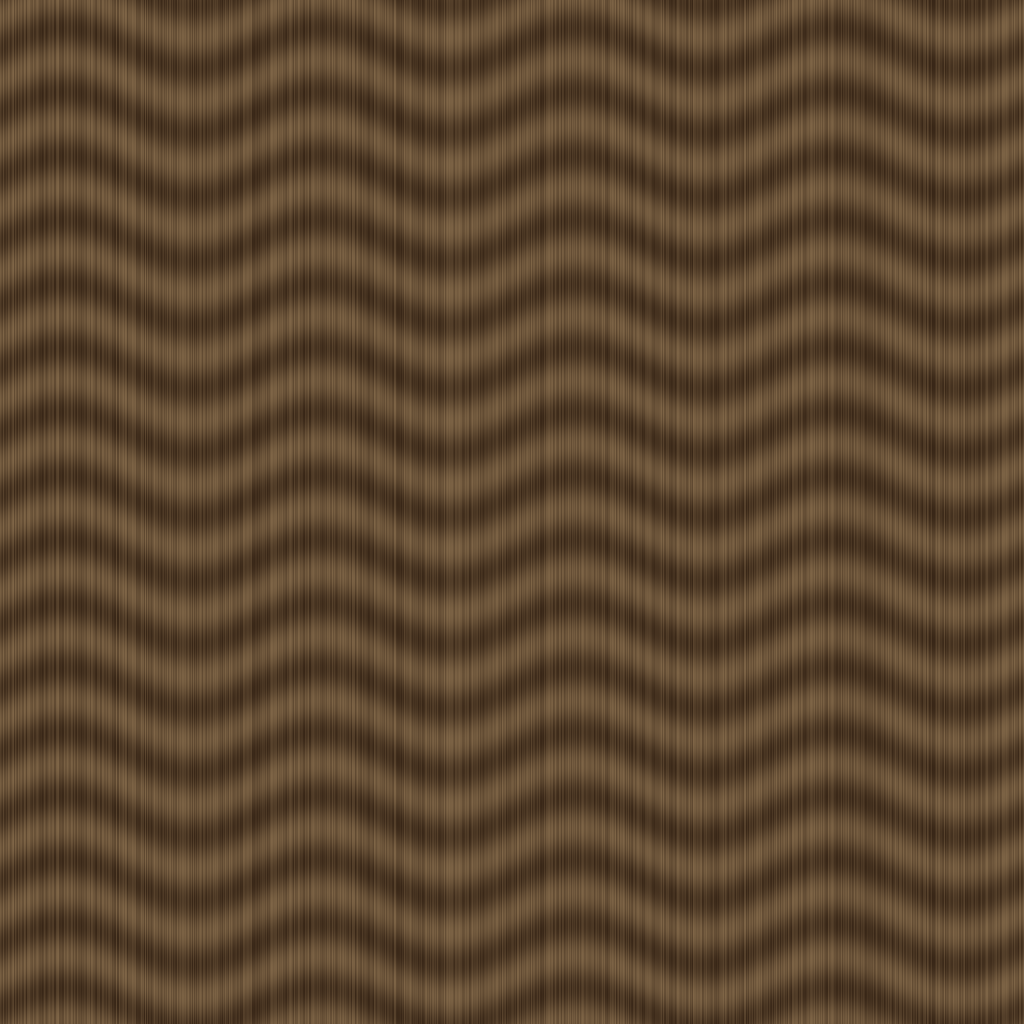
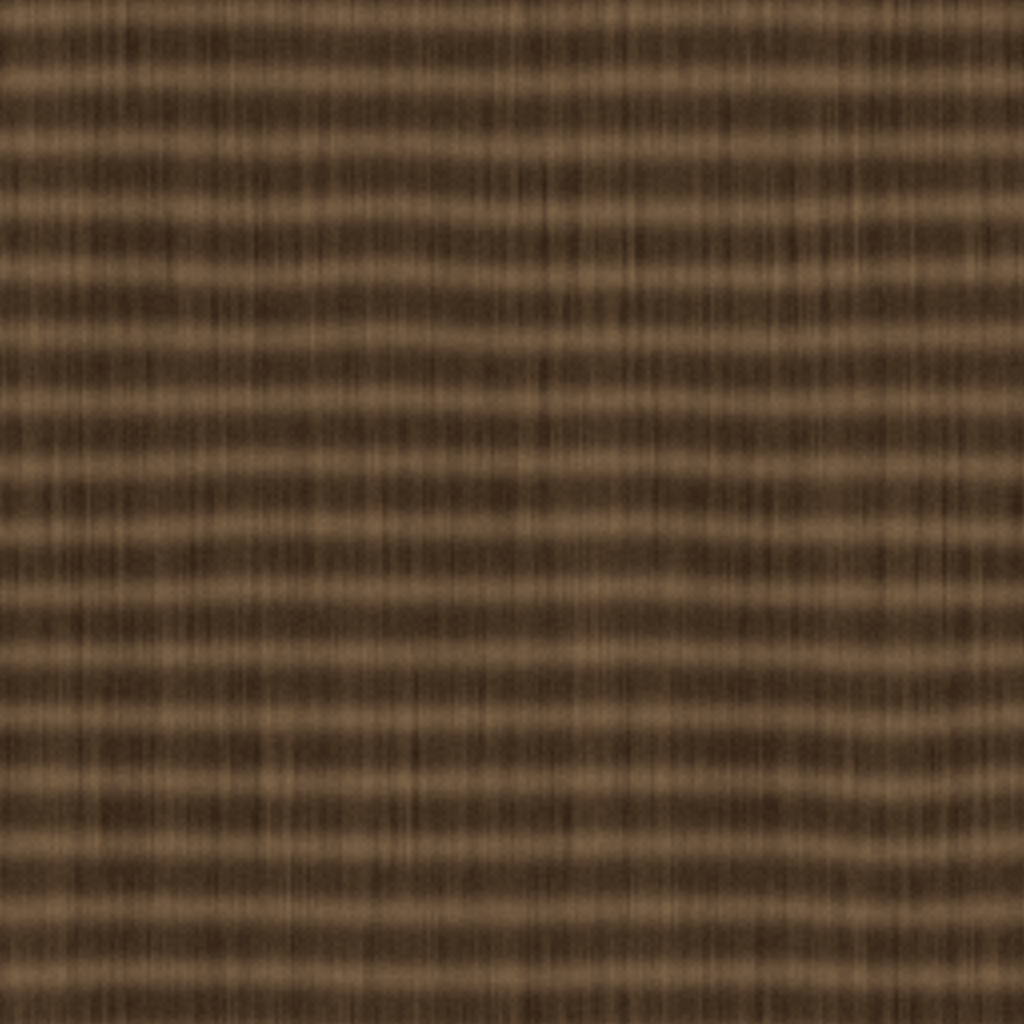
X-41 · Revisión de escena: casas fuera de ofrendas, palma fuera del grupo E1 y tronco de palma sin zigzag
Auditoría con el modo captura y las matrices de dibujo (Linux, Mesa): 11 casas de X-30 descartadas porque contenían ofrendas, personas, faroles o palmas; palma de la orilla movida de (-5.5, 21.5) a (-6.0, 19.0); nueva textura del tronco de palma (tools/x41_tronco_palma.py). Hallazgos sin corregir y opciones de variedad en docs/REVISION_ESCENA_2026-11-15.md.

Changed region(s): [[0.0, 0.0, 1.0, 1.0]]

diff --git a/tools/x30_pueblo_fondo.py b/tools/x30_pueblo_fondo.py
@@ -49,6 +49,49 @@ def texturas():
     print("textura OK")
 
 
+def puntos_de_vida():
+    """X-41: lee (x, z) de todo lo que NO debe quedar dentro de una casa: en src/VidaColinasDatos.h (generado por x33) faroles, arcos,
+    tendederos, ofrendas, fogatas, personas, palmas y arboles, y en src/VegetacionColinas.h (generado por x18) palmas. No se cuentan
+    arbustos ni rocas (chicos o semienterrados: no se notan). Un archivo que aun no existe se ignora."""
+    import re
+    fuentes = (("VidaColinasDatos.h", ("FAROLES", "ARCOS", "TENDEDEROS", "OFRENDAS", "FOGATAS", "PERSONAS", "PALMAS", "ARBOLES")),
+               ("VegetacionColinas.h", ("PALMAS",)))
+    pts = []
+    for archivo, nombres in fuentes:
+        ruta = os.path.join(RAIZ, "src", archivo)
+        if not os.path.exists(ruta):
+            continue
+        txt = open(ruta, encoding="utf-8").read()
+        for nombre in nombres:
+            m = re.search(r"%s\[\d+\] = \{(.*?)\n    \};" % nombre, txt, re.S)
+            if not m:
+                continue
+            for fila in re.findall(r"\{ (-?[\d.]+)f, (-?[\d.]+)f, (-?[\d.]+)f", m.group(1)):
+                pts.append((float(fila[0]), float(fila[2])))      # (x, y, z, ...): se usan x y z
+    return pts
+
+
+MARGEN_CASA = 0.8          # m alrededor de la huella de la casa (x -3..3, z -3.5..2.5 en casa_a/casa_b.obj)
+_VIDA = None
+
+
+def choca_con_vida(casa):
+    """True si algun punto de VidaColinasDatos.h cae dentro de la huella (girada) de la casa, con MARGEN_CASA de holgura.
+    La rotacion es la de glm::rotate(model, giro, Y): mundo = c + R(giro) * local, asi que local = R(-giro) * (mundo - c)."""
+    global _VIDA
+    if _VIDA is None:
+        _VIDA = puntos_de_vida()
+    cx, _, cz, giro, _ = casa
+    th = math.radians(giro)
+    c, s = math.cos(th), math.sin(th)
+    for (px, pz) in _VIDA:
+        dx, dz = px - cx, pz - cz
+        lx, lz = c * dx - s * dz, s * dx + c * dz
+        if -3.0 - MARGEN_CASA < lx < 3.0 + MARGEN_CASA and -3.5 - MARGEN_CASA < lz < 2.5 + MARGEN_CASA:
+            return True
+    return False
+
+
 def cabecera():
     casas, rocas, = [], []
     paso_casa = 9.0
@@ -77,6 +120,7 @@ def cabecera():
                 ddx, ddz = -nx * lado, -nz * lado             # hacia el camino
                 giro = math.degrees(math.atan2(-ddx, -ddz))
                 casas.append((round(cx, 2), round(base - 0.05, 2), round(cz, 2), round(giro, 1), (i + lado) % 2))
+    casas = [c for c in casas if not choca_con_vida(c)]            # X-41: ninguna casa encima de ofrendas, gente, faroles ni arboles de VidaColinasDatos.h
     casas = casas[:46]
     # promontorio rocoso tipo Punta Cometa (formacion generica): rocas grandes en el extremo oeste, con un mirador pequeno
     cluster = [(-84.0, 30.0, 22.0, 20.0), (-92.0, 36.0, 30.0, 85.0), (-78.0, 38.0, 14.0, 150.0), (-98.0, 26.0, 26.0, 230.0), (-88.0, 24.0, 12.0, 300.0), (-72.0, 28.0, 9.0, 40.0)]

diff --git a/src/PuebloFondo.h b/src/PuebloFondo.h
@@ -5,49 +5,38 @@ namespace PuebloFondo
 {
     struct Casa { float x, y, z, giro; int tipo; };
     struct Roca { float x, y, z, giro, esc; };
-    inline const Casa CASAS[44] = {
+    inline const Casa CASAS[33] = {
         { -108.91f, 26.47f, -55.05f, -173.10f, 0 },
         { -107.09f, 24.11f, -40.16f, 6.90f, 0 },
         { -97.78f, 26.04f, -57.14f, -166.30f, 1 },
         { -86.23f, 24.18f, -60.43f, -162.70f, 0 },
         { -74.21f, 19.62f, -64.24f, -162.90f, 1 },
-        { -69.79f, 12.02f, -49.90f, 17.10f, 1 },
-        { -48.81f, 17.88f, -69.97f, -173.80f, 1 },
         { -35.69f, 16.58f, -70.43f, 177.60f, 0 },
         { -36.31f, 9.98f, -55.44f, -2.40f, 0 },
         { -22.65f, 14.58f, -68.93f, 169.60f, 1 },
         { -25.35f, 8.52f, -54.18f, -10.40f, 1 },
         { -14.04f, 7.56f, -51.48f, -15.80f, 0 },
-        { -2.28f, 6.04f, -47.85f, -17.70f, 1 },
         { 9.96f, 4.74f, -44.09f, -15.80f, 0 },
         { 22.65f, 3.71f, -41.07f, -10.40f, 1 },
         { 36.31f, 9.55f, -54.56f, 177.60f, 0 },
-        { 35.69f, 3.47f, -39.57f, -2.40f, 0 },
         { 48.81f, 3.85f, -40.03f, 6.20f, 1 },
         { 58.28f, 13.21f, -56.90f, -166.80f, 0 },
         { 61.72f, 6.06f, -42.30f, 13.20f, 0 },
-        { 69.79f, 16.06f, -60.10f, -162.90f, 1 },
         { 74.21f, 10.95f, -45.76f, 17.10f, 1 },
-        { 81.77f, 19.99f, -63.89f, -162.70f, 0 },
         { 86.23f, 16.71f, -49.57f, 17.30f, 0 },
         { 94.22f, 22.60f, -67.43f, -166.30f, 1 },
         { 97.78f, 20.09f, -52.86f, 13.70f, 1 },
         { 107.09f, 19.23f, -69.84f, -173.10f, 0 },
         { 108.91f, 21.04f, -54.95f, 6.90f, 0 },
-        { -64.33f, 1.44f, -15.97f, -57.50f, 0 },
         { -71.30f, 4.18f, -24.70f, -45.00f, 1 },
-        { -60.70f, 3.44f, -35.30f, 135.00f, 1 },
         { -78.80f, 9.04f, -30.91f, -39.80f, 1 },
         { -68.24f, 8.85f, -43.58f, 140.20f, 1 },
         { -95.95f, 21.80f, -39.91f, -26.10f, 0 },
         { -88.71f, 23.08f, -54.74f, 153.90f, 0 },
         { 64.44f, 1.36f, -9.47f, 59.70f, 1 },
-        { 55.31f, 0.68f, -27.35f, -132.00f, 1 },
         { 67.57f, 2.49f, -16.32f, 48.00f, 1 },
-        { 66.24f, 5.67f, -38.25f, -140.20f, 0 },
         { 75.52f, 10.73f, -44.02f, -143.30f, 0 },
         { 86.44f, 17.18f, -51.06f, -147.30f, 1 },
-        { 94.56f, 17.67f, -38.44f, 32.70f, 1 },
         { 99.12f, 20.87f, -57.26f, -157.40f, 0 },
         { 104.88f, 21.41f, -43.41f, 22.60f, 0 }
     };
@@ -59,7 +48,7 @@ namespace PuebloFondo
         { -88.00f, 8.37f, 24.00f, 300.00f, 12.00f },
         { -72.00f, 3.13f, 28.00f, 40.00f, 9.00f }
     };
-    constexpr int N_CASAS = 44;
+    constexpr int N_CASAS = 33;
     constexpr int N_ROCAS = 6;
     constexpr float MIRADOR_X = -84.00f, MIRADOR_Y = 25.14f, MIRADOR_Z = 30.00f;
 }

diff --git a/tools/x41_tronco_palma.py b/tools/x41_tronco_palma.py
@@ -1,0 +1,38 @@
+r"""X-41: textura del tronco de la palma (Models/palma/palma_tronco.png), 1024 x 1024, teselable en u y v.
+Sustituye a la de X-9, cuyas bandas onduladas se leian como un zigzag (chevron) repetido sobre el tronco. Aqui: anillos horizontales
+casi rectos (las cicatrices de las hojas viejas, con una ligera irregularidad), fibras verticales y grano fino. Solo numpy + PIL.
+Uso (raiz del repo):  python tools/x41_tronco_palma.py
+El mapeo UV no cambia (u 0..2 alrededor del tronco, v 0..3 a lo largo: ~2.8 m de tronco por repeticion; 16 anillos por repeticion = 1 cada 17 cm)."""
+import math, os
+import numpy as np
+from PIL import Image
+
+RAIZ = os.path.abspath(os.path.join(os.path.dirname(os.path.abspath(__file__)), ".."))
+N = 1024
+rng = np.random.default_rng(41)
+
+
+def ruido_periodico(celdas_y, celdas_x, semilla):
+    """Ruido de valor suave (smoothstep), periodico en ambos ejes, de N x N."""
+    g = np.random.default_rng(semilla).random((celdas_y, celdas_x))
+    y = np.linspace(0, celdas_y, N, endpoint=False); x = np.linspace(0, celdas_x, N, endpoint=False)
+    iy = y.astype(int); ix = x.astype(int); fy = y - iy; fx = x - ix
+    uy = fy * fy * (3 - 2 * fy); ux = fx * fx * (3 - 2 * fx)
+    iy1 = (iy + 1) % celdas_y; ix1 = (ix + 1) % celdas_x
+    a = g[np.ix_(iy, ix)]; b = g[np.ix_(iy, ix1)]; c = g[np.ix_(iy1, ix)]; d = g[np.ix_(iy1, ix1)]
+    return (a * (1 - ux[None, :]) + b * ux[None, :]) * (1 - uy[:, None]) + (c * (1 - ux[None, :]) + d * ux[None, :]) * uy[:, None]
+
+
+y = np.arange(N)[:, None] * np.ones((1, N)); x = np.arange(N)[None, :] * np.ones((N, 1))
+# anillos casi horizontales: 16 por tile; la fase se desplaza un poco con un ruido suave (irregularidad, no zigzag)
+fase = y * 2 * math.pi / 64 + 1.1 * (ruido_periodico(4, 8, 410) - 0.5)
+anillo = (0.5 + 0.5 * np.sin(fase)) ** 1.6                      # franja clara ancha y cicatriz oscura angosta
+# fibras verticales: franjas finas (128 columnas) que varian despacio a lo largo del tronco
+fibra = 0.55 * ruido_periodico(4, 128, 411) + 0.45 * ruido_periodico(16, 256, 412)
+grano = ruido_periodico(256, 256, 413)
+base = np.clip(0.50 * anillo + 0.38 * fibra + 0.12 * grano, 0, 1)
+base = (base - base.min()) / (base.max() - base.min())
+c1 = np.array((0.19, 0.13, 0.08)); c2 = np.array((0.50, 0.40, 0.29))
+img = c1[None, None, :] * (1 - base[..., None]) + c2[None, None, :] * base[..., None]
+Image.fromarray((np.clip(img, 0, 1) * 255).astype(np.uint8), "RGB").save(os.path.join(RAIZ, "Models", "palma", "palma_tronco.png"))
+print("palma_tronco.png OK")

diff --git a/src/main.cpp b/src/main.cpp
@@ -747,7 +747,7 @@ int main()
         // X-9: vegetacion decorativa en la playa (z 14..22, fuera de la barda y lejos del eje x = 0 de la caminata)
         {
             const glm::vec3 palmas[8] = { { -25.0f, 0.0f, 13.0f }, { -8.5f, 0.0f, 17.0f }, { -11.0f, 0.0f, 19.0f }, { 20.0f, 0.0f, 17.0f },
-                                          { -16.5f, 0.0f, 15.0f }, { 23.0f, 0.0f, 20.0f }, { -5.5f, 0.0f, 21.5f }, { -3.8f, 0.0f, 21.0f } };
+                                          { -16.5f, 0.0f, 15.0f }, { 23.0f, 0.0f, 20.0f }, { -6.0f, 0.0f, 19.0f }, { -3.8f, 0.0f, 21.0f } };   // X-41: la palma de (-5.5, 21.5) estaba dentro del grupo de personas E1
             for (int i = 0; i < 8; i++) colocar(palma, palmas[i], 47.0f * i);
             const glm::vec3 arbustos[8] = { { -2.8f, 0.0f, 13.7f }, { 3.4f, 0.0f, 13.8f }, { -8.0f, 0.0f, 17.2f }, { -9.5f, 0.0f, 15.0f },
                                             { -13.5f, 0.0f, 17.0f }, { 24.0f, 0.0f, 16.0f }, { -5.0f, 0.0f, 19.5f }, { -8.0f, 0.0f, 19.5f } };

diff --git a/docs/REVISION_ESCENA_2026-11-15.md b/docs/REVISION_ESCENA_2026-11-15.md
@@ -1,0 +1,55 @@
+# Revisión de escena (X-41) — 15/11/2026
+
+Pedido de D2: revisar a fondo que no haya texturas raras, que todos los modelos carguen bien y que no haya cosas flotando o sin sentido; y proponer qué agregar o mover para dar más variedad.
+
+## Cómo se revisó (y qué NO se pudo)
+
+- **Dónde:** se compiló `develop` (PR #106) con g++ 13 y se ejecutó con Mesa llvmpipe (render por software) en Linux. **No es Visual Studio ni una GPU integrada**, así que lo de *MSVC* y los *FPS* queda sin verificar. Los archivos de la PC de D2 no se tocaron.
+- **Capturas:** 40 poses con el modo captura (`NIERIKA_CAPTURAS`). Ojo: ese modo pega la cámara al suelo (y = terreno + 1.6 m), por eso no hay vistas aéreas.
+- **Medición de posiciones:** una copia temporal de `Model.h` (fuera del repo) escribió, por cada `Draw`, la caja del modelo en coordenadas del mundo y el origen de su matriz. Se compararon 2 853 dibujos de un cuadro contra `Terreno::altura` (misma fórmula que `src/Terreno.h`). Los números salen de ahí, no de la lectura del código.
+- **Archivos:** un script revisó los 70 `Models/*/*.obj`: `.mtl` presente, cada `map_Kd`/`map_Bump` existe, todo `.obj` tiene UV, y toda ruta `Models/...` de `src/` existe.
+
+## Lo que está bien (verificado)
+
+| Qué | Resultado |
+|---|---|
+| Carga de modelos | Sin errores en consola. Ningún `.mtl` ni textura faltante; todos los `.obj` con UV; ninguna ruta rota. |
+| Texturas | 127 imágenes revisadas en hoja de contacto: todas 1024 px y cuadradas, salvo las 3 de `Models/altar/` (2048 px, **modelo sin usar**). Sin magenta ni color plano inesperado en pantalla. |
+| Contacto con el suelo | Árboles, arbustos, palmas, faroles, tumbas, cruces, petates, canastas, hamacas, barda, fachada: origen a menos de 0.25 m del terreno (la diferencia es la pendiente). Personas de pie en playa/colinas: ≤ 0.1 m. |
+| Sobre el agua | Lanchas, tablas de remo y tortugas siguen la altura de la ola; las personas de las tablas van sobre la tabla. |
+| Objetos a propósito en el aire | Palapa del mirador (y = 25.1 sobre la roca grande), guitarras, tambores, trompetas y velas en manos, redes colgando de su bastidor, ofrenda del altar: todo es intencional. |
+
+## Defectos corregidos en este PR
+
+1. **Ofrendas dentro de casas (visto en pantalla y medido).** X-30 generó las casas del pueblo sin saber de X-33/X-36. Las ofrendas con cruz de (−60, −36) y (65, −35) quedaron *dentro* de una casa (en la captura de "antes" la cámara estaba frente a una pared donde debía haber una cruz), y había faroles, palmas y personas atravesando paredes. `tools/x30_pueblo_fondo.py` ahora descarta toda casa que contenga una de esas cosas (44 → 33 casas). Evidencia: `docs/manual_tecnico/evidencias/X-41_antes_despues_casas_ofrendas_linux_15-11.jpg`.
+2. **Palma dentro de un grupo de personas.** La palma de (−5.5, 21.5) coincidía con el niño del grupo E1; pasa a (−6.0, 19.0).
+3. **Textura "rara" del tronco de la palma (visto en pantalla).** Las bandas onduladas de X-9 se leían como un zigzag repetido en todas las palmas de la playa. Nuevo `tools/x41_tronco_palma.py`: anillos casi rectos con fibras verticales (mismo mapeo UV, no se tocó el `.obj`). Evidencia: `X-41_tronco_palma_antes_despues.jpg`.
+
+## Hallazgos que NO se corrigieron (decide D2)
+
+| # | Hallazgo | Evidencia | Cómo se vio | Propuesta |
+|---|---|---|---|---|
+| H1 | **La comparsa atraviesa faroles y palmas.** Marcha por z = 21.7 y 23.5 y los faroles de la orilla están en z = 21.4–22.3 (y el grupo E1 está en z 21.2–21.8). | — | Medido (posiciones); no se vio el cruce en movimiento | Mover la comparsa a z = 23.1 y 24.0 *o* retirar 3 faroles de la orilla. Conviene decidirlo junto con el hilo de la banda. |
+| H2 | **Una palma coincide con un músico** de la banda actual en (−11.0, 19.0) contra (−11.4, 19.0). | — | Medido | No se tocó porque el otro hilo (banda de folclor) va a rehacer ese grupo; moverla 1.5 m al oeste cuando se sepa dónde queda. |
+| H3 | **Roca y banco en el mismo punto bajo la palapa de (26, −17)** (la roca de X-33 cae justo en el centro de la palapa). | 1.er cuadro de `X-41_hallazgos_sin_corregir_linux_15-11.jpg` | Visto en pantalla | Quitar esa roca (es de `VidaColinasDatos.h`, la genera `tools/x33_vida_colinas.py`). |
+| H4 | **Borde arena/pasto recto como regla en z = −20**, sin transición, a lo largo de 100 m. Es lo que más delata que la playa es un rectángulo. | cuadros 2 y 3 del mismo archivo (el 4.º es el mar de noche, sin hallazgo) | Visto en pantalla | Opción de variedad A (abajo). |
+| H5 | **Personas = maniquíes** (sin cara; tono plano de piel). | todas las capturas | Visto en pantalla | Opción de variedad G (abajo). |
+| H6 | **~2 830 llamadas a `Model::Draw` por cuadro** (498 luciérnagas, 206 arbustos, 188 flores, 144 llamas, 135 velas, 133 palmas…). Solo las personas y algunas plantas se descartan por distancia. | — | Medido | Antes de sumar variedad, conviene medir FPS en la laptop integrada de D2 (E-1); si hace falta, descartar por distancia luciérnagas, llamas y flores. |
+| H7 | **Carpetas que cargan pero no se usan:** `Models/pan/` se carga y nunca se dibuja (un `Draw` con 0 llamadas); `Models/altar/` (3 PNG de 2048 px, 8 MB) no se usa. `Models/atuendos/` solo tiene texturas (correcto). | — | Medido / por código | Limpiar en un PR aparte; no afecta lo que se ve. |
+| H8 | **Promontorio rocoso de la bahía oeste** (rocas de 9–30 m + palapa de mirador). Es una formación genérica ya registrada como excepción (X-30), pero Punta Cometa figura como fuera de alcance. | — | Visto en pantalla (bahía oeste) | Solo recordatorio: si el profesor pregunta, es la excepción X-30. |
+
+## Opciones para más variedad y actividades (SIN implementar; espera la elección de D2)
+
+Costo: se da en **llamadas de dibujo extra** porque los FPS en integrada no están medidos (ver H6). Regla práctica: ~3 000 llamadas hoy; +100 es +3 %.
+
+| Opción | Qué se vería | Modelos nuevos (Blender) | Costo | Riesgo / alcance |
+|---|---|---|---|---|
+| **A. Borde de playa con vida** | Pasto que se mezcla con la arena (parches), troncos de mar varados, algas secas en la línea del agua (z ≈ 23) | 1 tronco, 1 alga (pueden ser > 18 propios) | ≈ +40 | Bajo. Resuelve H4 con poco costo. |
+| **B. Puesto de pan y chocolate** bajo la palapa de (−25, −16) | Mesa con pan de muerto, jarros y canastas; dos personas atendiendo | 1 mesa, 1 jarro | ≈ +25 | Bajo. Usa `pan_muerto`, `cesta`, `farol` ya existentes. Aporta "actividad" en la franja norte. |
+| **C. Rueda de velas** en la franja norte | 10–12 personas con vela en círculo que gira lento (senos, sin KeyFrames) alrededor de una cruz | ninguno | ≈ +40 | Bajo. Extra ambiental: se registra como decisión. |
+| **D. Niños con papalotes** en la playa sur | 3 niños corren y 3 papalotes se mueven con senos | 1 papalote | ≈ +20 | Bajo-medio: necesita pose de correr (hoy solo pie/agachada). |
+| **E. Pescadores remendando red + fogata de velada** | Grupo sentado junto a lancha varada y red; fogata pequeña | 1 persona sentada | ≈ +30 | Medio: la persona sentada es un modelo nuevo; reutiliza `red_pesca`, `lancha`, `fogata`. |
+| **F. Mirador de las ánimas** en la cima este (65, −35) | Más ofrendas, bancas, tendedero y luces, con una ficha cultural | 1 banca | ≈ +50 | Medio: sumar una 6.ª ficha exige fuente APA 7 verificada. |
+| **G. Caras en las personas** | Textura de rostro (ojos, boca, cejas) en cabezas; 4 tonos de piel | 0 (solo texturas) | 0 | Bajo; es la mejora de mayor efecto visual por costo. |
+
+**Recomendación:** G + A + B primero (≈ +65 llamadas, sin riesgo de alcance), después C si sobra tiempo. Dejar D, E y F para después de medir FPS (E-1). Cualquiera de estas opciones es un **extra ambiental** y se anota como decisión en el ESTADO antes de implementarla.

diff --git a/docs/ESTADO_PROYECTO.md b/docs/ESTADO_PROYECTO.md
@@ -137,6 +137,7 @@ Antes: fachada esc. 3.0 (~7.6 m de alto) y "altar" esc. 3.5 (6.6 m de alto).
 | X-35 | **Extra:** atuendos distintos por persona (6 ropas, 4 pieles, 4 pelos) y prendas: falda de olanes bordada, rebozo y sombrero de palma | — | Cada persona se ve distinta; las prendas aparecen en su sitio (falda en la cintura, sombrero sobre la cabeza) | 🔄 14/11, misma rama; **sin ver en pantalla** |
 | X-36 | **Extra (elegido por D2, 14/11, tras revisar capturas):** «Camino de las ánimas», atmósfera y gente | — | Senderos de tierra visibles con racimos de cempasúchil, faroles, arcos, tendederos y ofrenda con cruz; procesión con velas; árboles y rocas; halos cálidos; 14 ropas y tallas distintas | 🔄 14/11, misma rama y PR #96; **solo `g++ -fsyntax-only` y capturas de D2** (ver sección 4); falta `/verificar` |
 | X-40 | **Fix (14/11, pedido de D2 con captura):** franja azul sin suelo entre la arena y el pasto (z −22…−20) | — | Al caminar por el borde norte de la playa ya no se ve el cielo oscuro entre arena y pasto: `colinas.obj` llega hasta z = −20 | **Hecho, sin compilar en VS** (falta que D2 lo confirme con una captura) |
+| X-41 | **Revisión de escena (15/11, pedido de D2):** auditoría de modelos, texturas y posiciones, y corrección de los defectos claros | — | Todos los `.obj` cargan con su `.mtl` y texturas; nada hundido ni flotando sin motivo; ninguna casa encima de una ofrenda, persona, farol o palma | 🔄 15/11, rama `claude/project-thread-truw7v` (PR por abrir). **Verificado en Linux** (g++ 13 + Mesa llvmpipe, no VS ni GPU integrada; el programa compila y corre sin errores de consola) con un recuento de los 2 853 dibujos de un cuadro contra `src/Terreno.h`: (1) **11 casas del pueblo de fondo se quitan** (44 → 33): X-30 las generó sin saber de X-33/X-36 y 2 de ellas tapaban las ofrendas con cruz de (−60, −36) y (65, −35) (captura antes/después en el PR); `tools/x30_pueblo_fondo.py` ahora descarta toda casa cuya huella (+0.8 m) contenga un farol, arco, tendedero, ofrenda, fogata, persona, palma o árbol, y `src/PuebloFondo.h` se regeneró; (2) la palma de la orilla en (−5.5, 21.5) estaba dentro del grupo de personas E1 y pasa a (−6.0, 19.0); (3) **textura del tronco de palma** (`tools/x41_tronco_palma.py`): la de X-9 tenía bandas onduladas que se veían como zigzag; ahora anillos casi rectos con fibras. **No verificado:** VS2022, FPS (≈ 2 830 llamadas `Model::Draw` por cuadro, sin medir en gráficos integrados). **Hallazgos sin corregir** en `docs/` del PR |
 
 **Para no ahogarse al final:** cada bloque deja escritas sus secciones del manual técnico (capturas + parámetros) en `docs/manual_tecnico/`.
 
@@ -385,6 +386,7 @@ como volumen porque tiene grosor (V: `fachada.obj`, objeto `roof`).
 | 14/11 | **PR #96 (X-33 a X-36) se mezcla SIN `/verificar` por orden expresa de D2 («hazle merge a todo», 16:30 México).** Es una excepción a la regla del 20/10 (todo PR necesita `/verificar APROBAR`); queda como historia, sin revisión retroactiva. Compilado en Release x64 en la PC de D2 (commit c0b1001) con 309–342 FPS en su GPU (no integrada); FPS en gráficos integrados sin medir. |
 | 14/11 | **D-6h · limpieza de audio: se quitan TODOS los archivos de `Audio/` (pedido de D2: «no se está modificando el volumen, apuesto a que es el audio viejo… elimina todos los audios y fusiónalo a github, y después vuelves a subir los únicos dos que ocupamos»).** Se borran `Audio/oleaje.mp3`, `Audio/musica.mp3` y `Audio/voces.wav`, y los generadores sintéticos que ya no se usan (`tools/d6_audio.py`, `tools/x24_voces.py`). **Se quita la pista `voces`** (murmullo sintético de X-24): Claude lee «los únicos dos» como **mar + música** (**a confirmar por D2**); el volumen por zona de las voces desaparece. `Audio.cpp` pasa a **2 pistas** y a cargar **solo `.mp3`** (antes `.mp3`, `.wav`, `.flac`): un `.wav` viejo ya no puede sonar. Sin pistas el programa arranca y avisa por consola, no se cae. Se corrigen referencias a `.wav` en `LEEME_PAQUETE.txt` y en los manuales. **Hallazgo sobre el volumen (medido, no escuchado):** `develop` ya tenía exactamente esas dos pistas (`musica.mp3` es byte a byte el original de D2, sha256 d21607…a437); el audio viejo solo podía estar en la PC de D2. Además, aunque el oleaje sí cambie, queda ~20 dB por debajo de la música (oleaje −21.2 LUFS × 0.015…0.09 ≈ −57…−42 LUFS; música −10.0 LUFS × 0.048…0.24 ≈ −36…−22 LUFS): la música lo tapa, y por eso «no se nota» el cambio. **Este PR se mezcla a `develop` sin `/verificar` por orden expresa de D2 («elimina todos los audios y fusiónalo a github», 14/11, hora de México); excepción registrada a nombre de D2, igual que PR #97, #99, #100, #101, #103 y #104.** | Pedido de D2 (hilo del proyecto, 14/11) | D-6, X-24, `Audio/`, `src/Audio.cpp`, `tools/` |
 | 14/11 | **D-6i · vuelven solo `oleaje.mp3` y `musica.mp3` (segundo paso de D-6h).** `Audio/musica.mp3`: el original de D2 sin recodificar (byte a byte igual al que ya estaba; −10.0 LUFS, 4 min 20 s, 2.34 MB; su pico de origen es +0.2 dBFS). `Audio/oleaje.mp3`: rehecho desde el original de 10 min 06 s (YouTube 6TGHwQHdDlo, tramo 2:00–4:03), **ganancia lineal +3.2 dB sin limitador** (antes +5.1/+5.5 dB con limitador), bucle de 120 s con fundido cruzado de 3 s, mp3 VBR `-q:a 0`: 2.85 MB, **−23.0 LUFS (antes −21.2: 1.8 dB más bajo), pico −3.6 dBFS (antes −1.7)**. `Audio.cpp`: diagnóstico opcional `NIERIKA_DEBUG_AUDIO=1` que imprime cada segundo x, z y el volumen real del motor de cada pista (`ma_sound_get_volume`); apagado por defecto. **Revisión del código (leída y probada con miniaudio sin tarjeta de sonido):** `ActualizarZona` se llama cada cuadro al final del bucle de `main` y llama a `ma_sound_set_volume` con el valor de la curva; no hay volumen maestro, otra capa ni factor oculto salvo el 0.48 documentado de la música; ambos mp3 se abren y el volumen leído coincide con el fijado (0.090). **No se halló un bug de código.** Causa probable de «no cambia»: (1) archivos viejos en la PC de D2 (ya imposible para `.wav`) y (2) balance: el oleaje queda ~20 dB bajo la música (ver `Audio/README.md`). Subir el oleaje es decisión de D2 (no se cambió la curva). Créditos APA 7: canal, año y fecha de consulta de las dos pistas siguen **PENDIENTES (D2)**. Se mezcla sin `/verificar` por orden expresa de D2 (14/11); excepción a su nombre, igual que D-6h. No escuchado ni compilado en VS. | Pedido de D2 (hilo del proyecto, 14/11) | D-6, `Audio/`, `src/Audio.cpp` |
+| 15/11 | **X-41 · revisión de escena (D2): se quitan 11 casas del pueblo de fondo y se cambia la textura del tronco de la palma.** Criterio: una casa se descarta si dentro de su huella (x −3..3, z −3.5..2.5 en el sistema de la casa, +0.8 m de holgura) cae algún farol, arco, tendedero, ofrenda, fogata, persona, palma o árbol de `VidaColinasDatos.h` o palma de `VegetacionColinas.h` (arbustos y rocas no cuentan). Las casas siguen siendo un extra FUERA DEL ALCANCE ORIGINAL (X-30); esta decisión solo reduce su número, no cambia el alcance. | Las ofrendas de X-36 en (−60, −36) y (65, −35) quedaban dentro de una casa (visto en captura y calculado con la matriz de dibujo) y había palmas, faroles y personas atravesando paredes | X-30, X-33, X-36, `tools/x30_pueblo_fondo.py`, `src/PuebloFondo.h`, `Models/palma/palma_tronco.png`, `src/main.cpp` |
 
 ---
 
